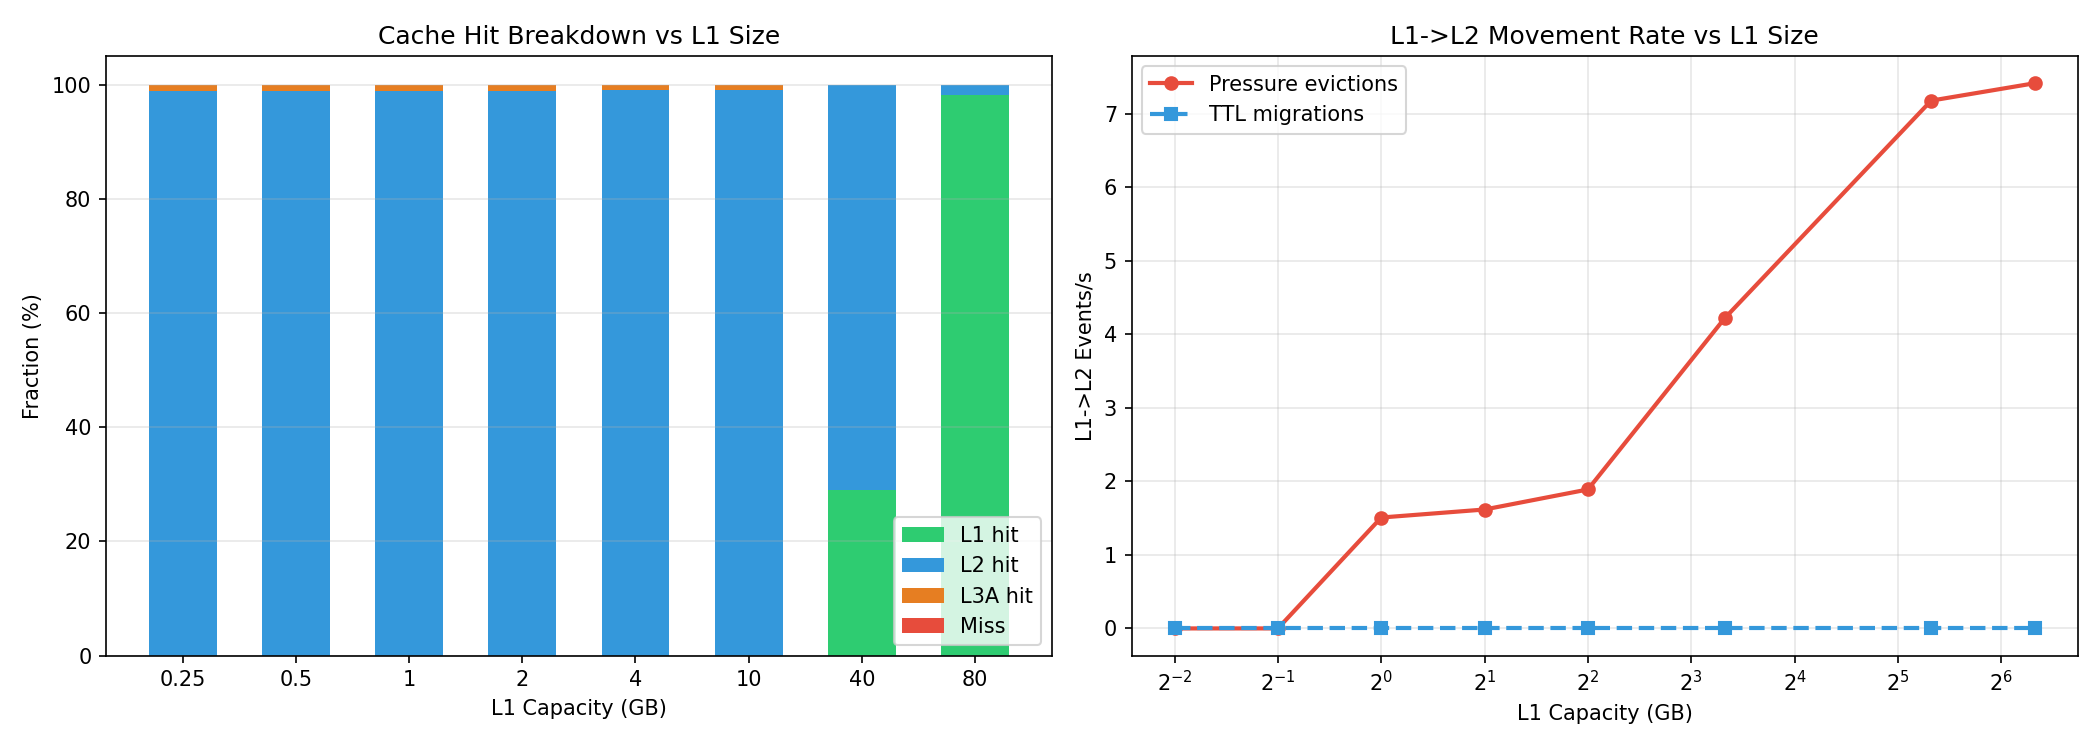
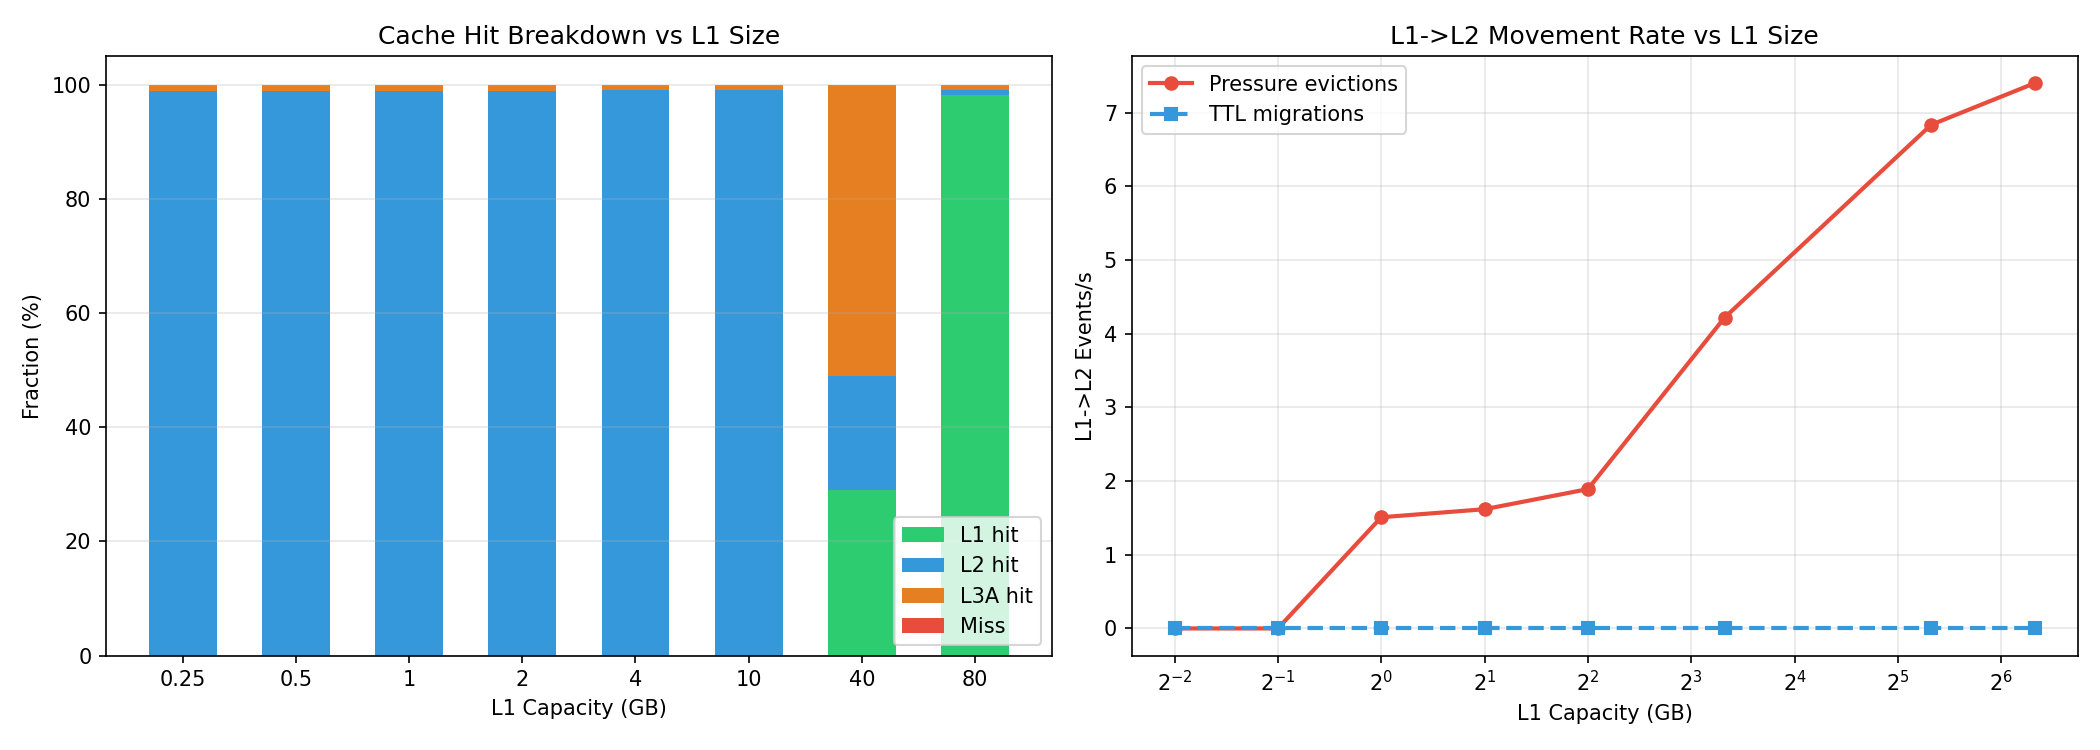
Fix L2 capacity overflow bug: eviction now checks can_fit()
evict_l1_to_l2() inserted into L2 without capacity check, causing
L2 saturation >100% (reported 154%). Now checks can_fit() and
hibernates directly to L3A when L2 is full.

L2 saturation now 75.5% (was 154.1%). L3A gets 0.88% hit rate from
overflow objects. All 24 tests pass. Plots and report updated.

diff --git a/sim/eviction.py b/sim/eviction.py
@@ -66,10 +66,34 @@ class EvictionEngine:
             obj.tier = Tier.L2
             obj.block_count = new_blocks
             obj.block_layout = TIER_TO_LAYOUT[Tier.L2]
-            l2.insert(key, obj)
+
+            if l2.can_fit(obj.size_bytes):
+                l2.insert(key, obj)
+            else:
+                # L2 full — hibernate directly to L3A
+                self.hibernate_l2_to_l3a_obj(key, obj)
             evicted.append(key)
 
         return evicted
+
+    def hibernate_l2_to_l3a_obj(self, cache_key: str, obj) -> bool:
+        """Move an already-removed object directly to L3A. Used when L2 is full."""
+        l3a = self.stores[Tier.L3A]
+        from sim.cache import allocated_blocks, TIER_TO_LAYOUT
+        new_blocks = allocated_blocks(obj.size_bytes, l3a.block_size_bytes)
+        obj.tier = Tier.L3A
+        obj.block_count = new_blocks
+        obj.block_layout = TIER_TO_LAYOUT[Tier.L3A]
+        obj.is_hibernated = True
+
+        if l3a.can_fit(obj.size_bytes):
+            l3a.insert(cache_key, obj)
+            return True
+        cleaned = self.cleanup_l3a(new_blocks * l3a.block_size_bytes)
+        if l3a.can_fit(obj.size_bytes):
+            l3a.insert(cache_key, obj)
+            return True
+        return False  # object lost
 
     def hibernate_l2_to_l3a(self, cache_key: str) -> bool:
         """Move CacheObject from L2 to L3a storage. Returns True if successful."""

diff --git a/CLAUDE.md b/CLAUDE.md
@@ -113,6 +113,11 @@ These are **mandatory** — must all pass before any exploratory run. They test 
 **Root cause**: `l1_to_l2_evictions` counted both TTL-driven tier demotions (time-based, constant rate) and occupancy-driven pressure evictions (capacity-dependent). The TTL-driven moves dominated, masking the capacity relationship.
 **Fix**: Split into two metrics: `l1_to_l2_evictions` (pressure-driven only) and `l1_to_l2_ttl_migrations` (TTL-driven). The L1 sensitivity plot now shows both separately. The plateau behavior is correct — once L1 can accept objects, the throughput rate equals the arrival rate regardless of capacity.
 
+### Bug: L2 saturation exceeded 100% (eviction bypassed capacity check)
+**Symptom**: L2 tier occupancy reported as 154% — `used_bytes > capacity_bytes`.
+**Root cause**: `EvictionEngine.evict_l1_to_l2()` inserted objects into L2 without checking `can_fit()`. When L1 pressure eviction fired and L2 was already full, objects were inserted unconditionally, exceeding capacity.
+**Fix**: Added `can_fit()` check before L2 insert in `evict_l1_to_l2()`. When L2 is full, objects are hibernated directly to L3A via new `hibernate_l2_to_l3a_obj()` method.
+
 ### Bug: Short sims only generated batch traffic (diurnal rate = 0 at midnight)
 **Symptom**: With v2 workload profiles, only `batch` produced KV objects. Chat, coding, agent, agentic_coding generated zero sessions.
 **Root cause**: The NHPP diurnal rate model peaks at 9 AM (offset 32400s). At t=0 (midnight), all profiles with `diurnal_peak_trough_ratio=4.0` have rate=0. The first arrival for non-batch profiles was at ~22,400s (~6.2 hours) — well beyond the 60s sim duration. Batch survived because its ratio=1.5 (nearly flat).

diff --git a/docs/heavy_coding_report.md b/docs/heavy_coding_report.md
@@ -36,24 +36,24 @@
 ## Single Worker Results (8 GPUs, realistic hardware)
 
 ```
-Sharing factor:  1.865
-Hit rates:       L1=98.2%  L2=1.7%  L3A=0.0%  miss=0.08%
-Tier saturation: L1=91.8%  L2=154.1%  L3A=0.0%
+Sharing factor:  1.866
+Hit rates:       L1=98.2%  L2=0.83%  L3A=0.88%  miss=0.08%
+Tier saturation: L1=91.8%  L2=75.5%  L3A=9.9%
 L1->L2 pressure:   7.4/s
 Cold evictions:    0
 ```
 
 Key observations:
 - **98.2% L1 hits** — 80GB L1 holds ~4-10 coding KV objects. Most lookups find cached KV in HBM.
-- **L2 acts as overflow** — only 1.7% of lookups fall through to L2 (DRAM).
-- **L3A unused** — with 80GB L1 + 1TB L2 per worker, objects rarely reach L3A in a 60s sim.
+- **L2 acts as overflow** at 75.5% saturation — 0.83% of lookups fall through to L2 (DRAM).
+- **L3A catches L2 overflow** — 0.88% of lookups hit L3A. Objects that can't fit in L2 are hibernated to SSD.
 - **0.08% cold miss** — near-perfect cache performance.
 - **L1 saturation 91.8%** — L1 is well-utilized but not overflowing excessively.
 
 ### Plot: Tier Occupancy Over Time
 ![Tier Occupancy](../plots/heavy_coding/tier_occupancy.png)
 
-L1 fills to ~92% and stays there. L2 absorbs overflow. L3A remains empty.
+L1 fills to ~92% and stays there. L2 absorbs overflow at ~75%. L3A catches objects that overflow L2 (~10%).
 
 ### Plot: TTFT Distribution
 ![TTFT Distribution](../plots/heavy_coding/ttft_distribution.png)
